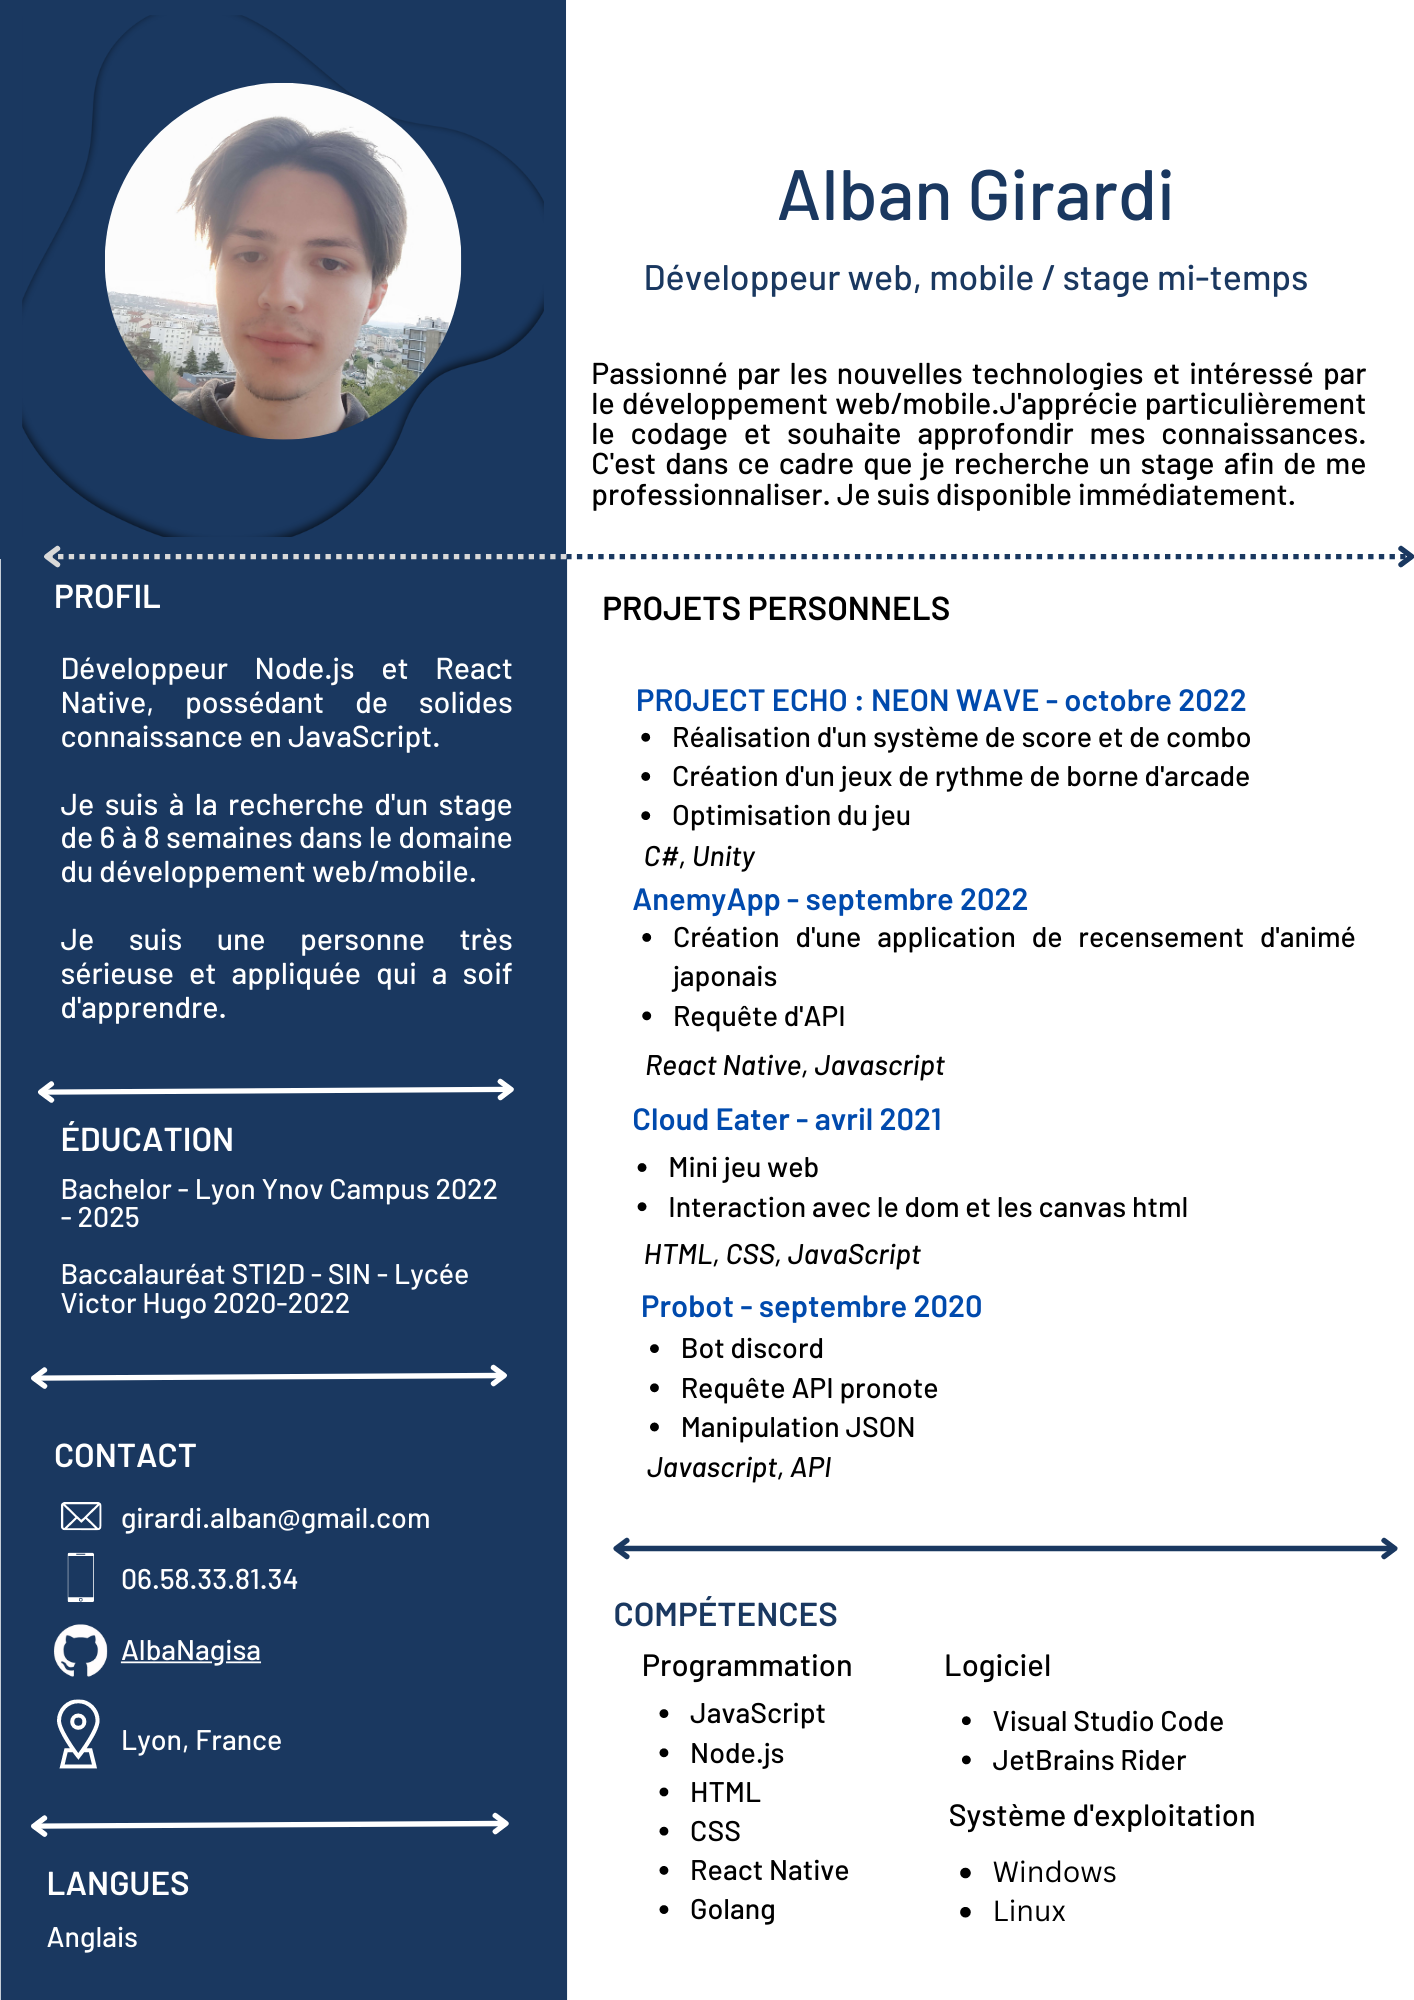
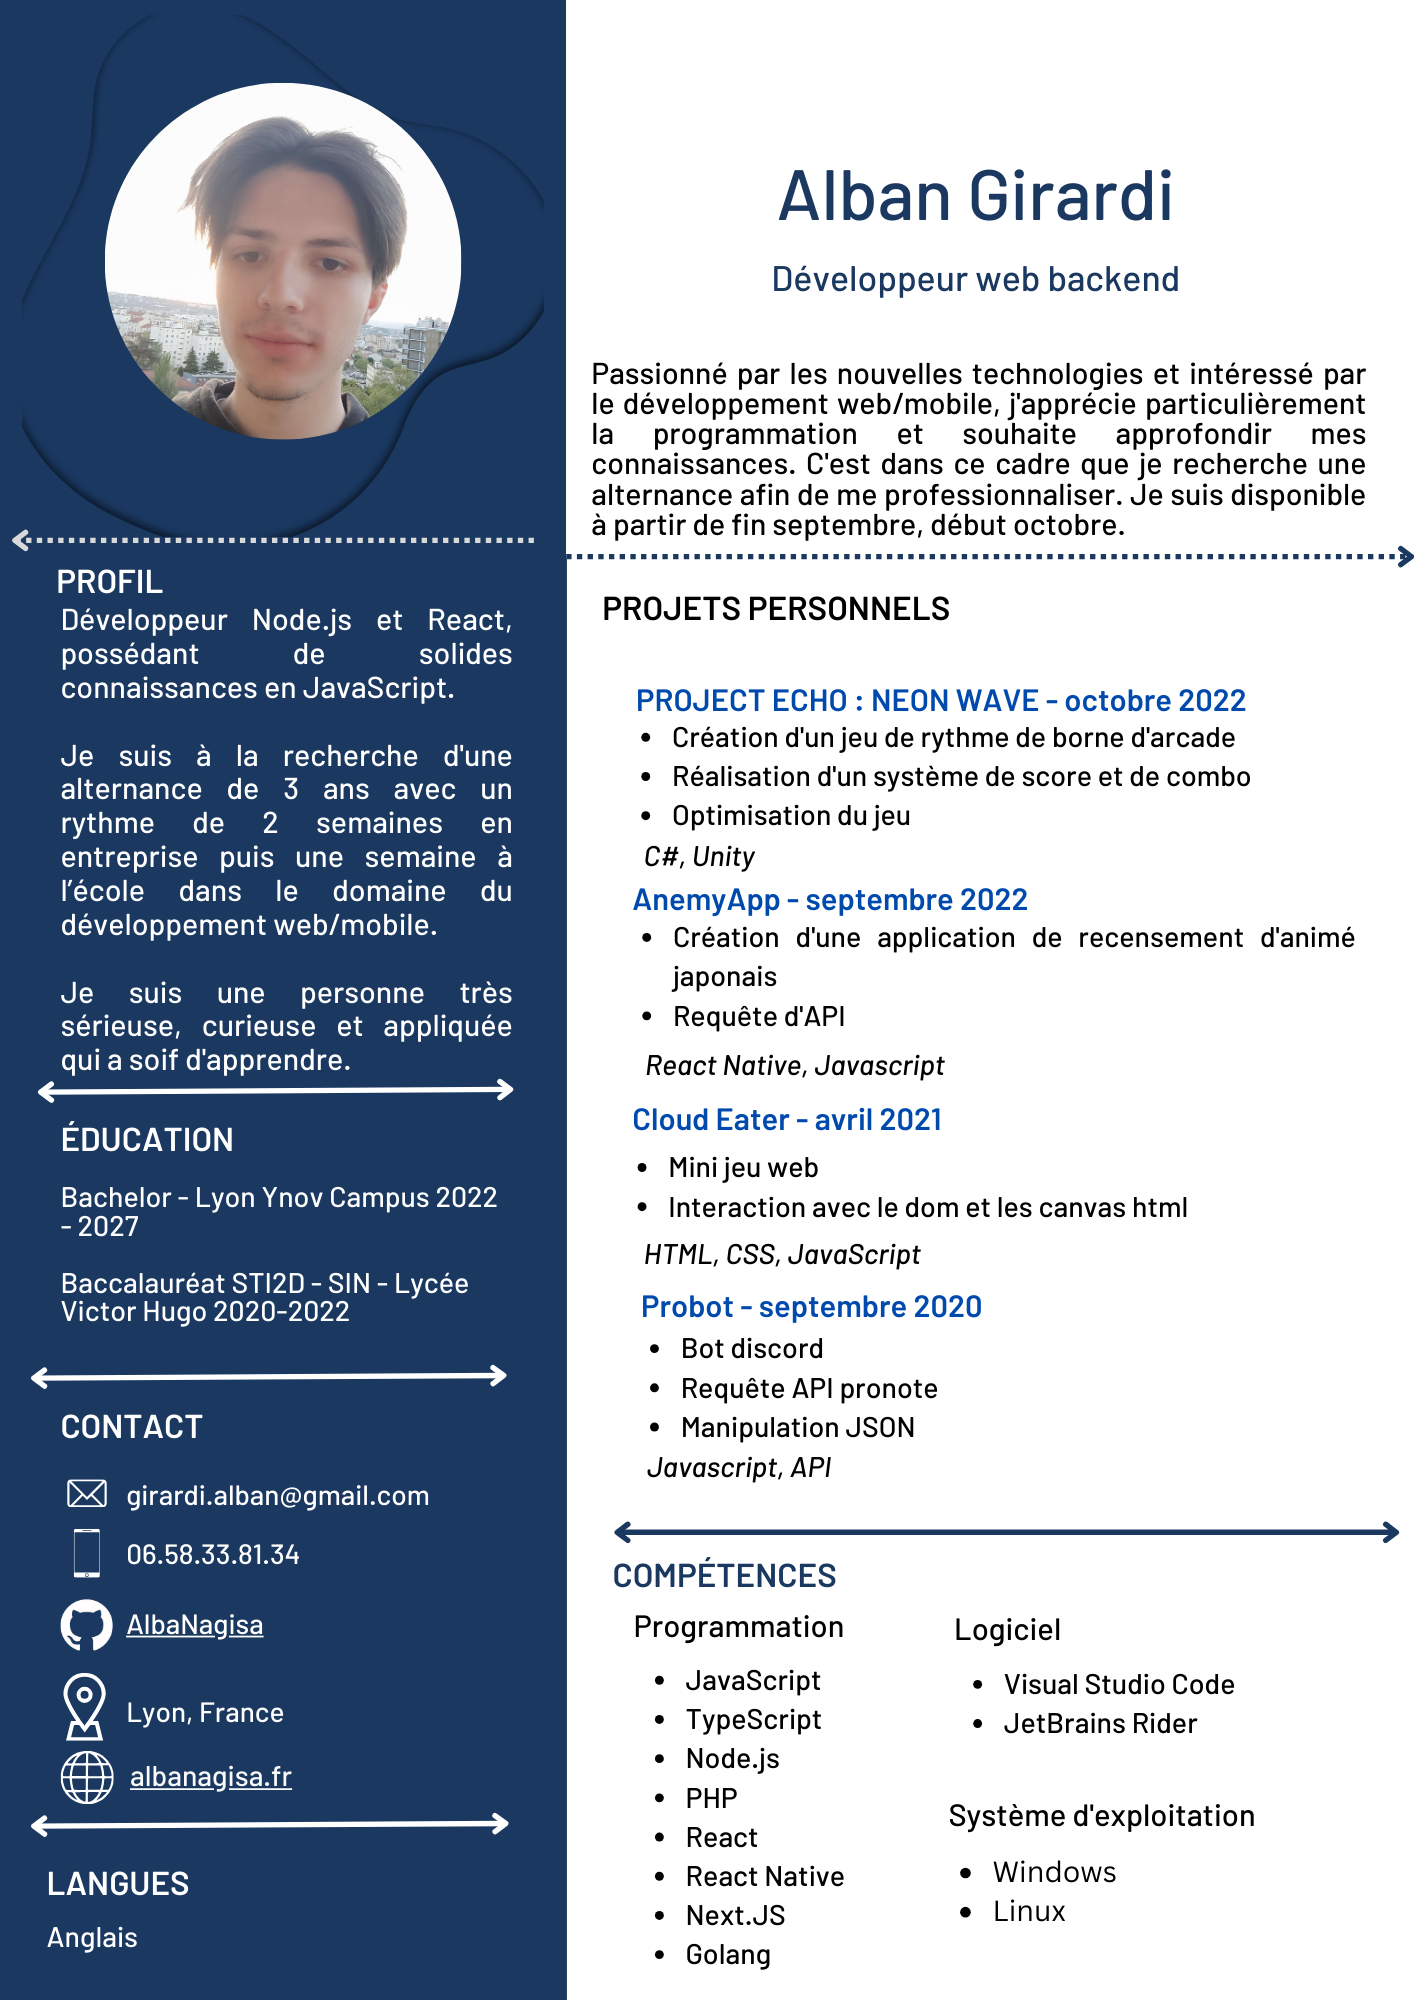
update

diff --git a/src/app/page.tsx b/src/app/page.tsx
@@ -34,7 +34,7 @@ export default function Page() {
   const [isAnimation, setIsAnimation] = useState<boolean>(true);
   useEffect(() => {
     setIsLoading(true);
-    fetch("http://31.220.95.3:5050/api/projects")
+    fetch(`${process.env.API_URL}/api/projects`)
       .then((res) => res.json())
       .then((value) => {
         setIsLoading(false);
@@ -46,7 +46,7 @@ export default function Page() {
         "Moi c'est Alban",
         `jeune développeur de 18 ans.`,
         `Actuellement étudiant à Lyon Ynov Campus.`,
-        "Je suis à la recherche d'un stage" /*  pour renforcer mes compétences et acquérir une expérience professionnelle "*/,
+        "Je suis à la recherche d'une alternance" /*  pour renforcer mes compétences et acquérir une expérience professionnelle "*/,
         "N'hésitez pas à me contacter !",
       ],
       typeSpeed: 40,
@@ -158,8 +158,8 @@ export default function Page() {
                 ans ! Je suis passionné par le backend et je développe
                 principalement en JavaScript en utilisant des frameworks tels
                 que Next.js. En ce moment, je suis étudiant à Lyon Ynov Campus
-                et je suis à la recherche d&apos;un stage pour renforcer mes
-                compétences et acquérir une expérience professionnelle.
+                et je suis à la recherche d&apos;une alternance pour renforcer
+                mes compétences et acquérir une expérience professionnelle.
                 N&apos;hésitez pas à me contacter ! Je serais ravi de discuter
                 avec vous.
               </h1>
@@ -190,7 +190,9 @@ export default function Page() {
               <Category name="Mes expériences" />
             </Fade>
 
-            <div style={{ width: "700px", height: "500px" }}>
+            <div
+              style={{ width: "700px", height: "500px", marginBottom: "4%" }}
+            >
               <Timeline />
             </div>
           </>

diff --git a/src/components/Skills.tsx b/src/components/Skills.tsx
@@ -23,7 +23,9 @@ export default function Skills(props: Props) {
   const [isLoaded, setIsLoaded] = useState(false);
   const [data, setData] = useState<DataType[] | null>(null);
   useEffect(() => {
-    fetch(`/api/skills/645e745819fe014f1c75c0da/${props.title}`)
+    fetch(
+      `${process.env.API_URL}/api/skills/645e745819fe014f1c75c0da/${props.title}`
+    )
       .then((res) => res.json())
       .then((value) => (setData(value), setIsLoaded(true)));
   }, [props.title]);

diff --git a/next.config.js b/next.config.js
@@ -7,15 +7,16 @@ const nextConfig = {
   env: {
     DISCORD_WEBHOOK_TOKEN: process.env.DISCORD_WEBHOOK_TOKEN,
     DISCORD_WEBHOOK_ID: process.env.DISCORD_WEBHOOK_ID,
+    API_URL: process.env.API_URL,
   },
-  async rewrites() {
+  /*  async rewrites() {
     return [
       {
         source: "/api/:path*",
         destination: "http://31.220.95.3:5050/api/:path*",
       },
     ];
-  },
+  }, */
   images: {
     remotePatterns: [
       {

diff --git a/src/components/Timeline.tsx b/src/components/Timeline.tsx
@@ -7,6 +7,11 @@ const Timeline = () => {
       <Chrono
         items={[
           {
+            title: "2023 - 2024",
+            cardTitle: "Ma Question Medicale",
+            cardSubtitle: `Stage en développement web et IOT de validation de fin de Bachelor 2`,
+          },
+          {
             title: "2022 - 2025",
             cardTitle: "Lyon Ynov Campus",
             cardSubtitle: `Bachelor Informatique`,

diff --git a/src/app/project/[id]/page.tsx b/src/app/project/[id]/page.tsx
@@ -36,7 +36,7 @@ const Page: FC<pageProps> = ({ params }) => {
 
   useEffect(() => {
     async function onLoad() {
-      await fetch(`/api/projects/${params.id}`)
+      await fetch(`${process.env.API_URL}/api/projects/${params.id}`)
         .then((res) => res.json())
         .then(async (value) => {
           setData(value);
